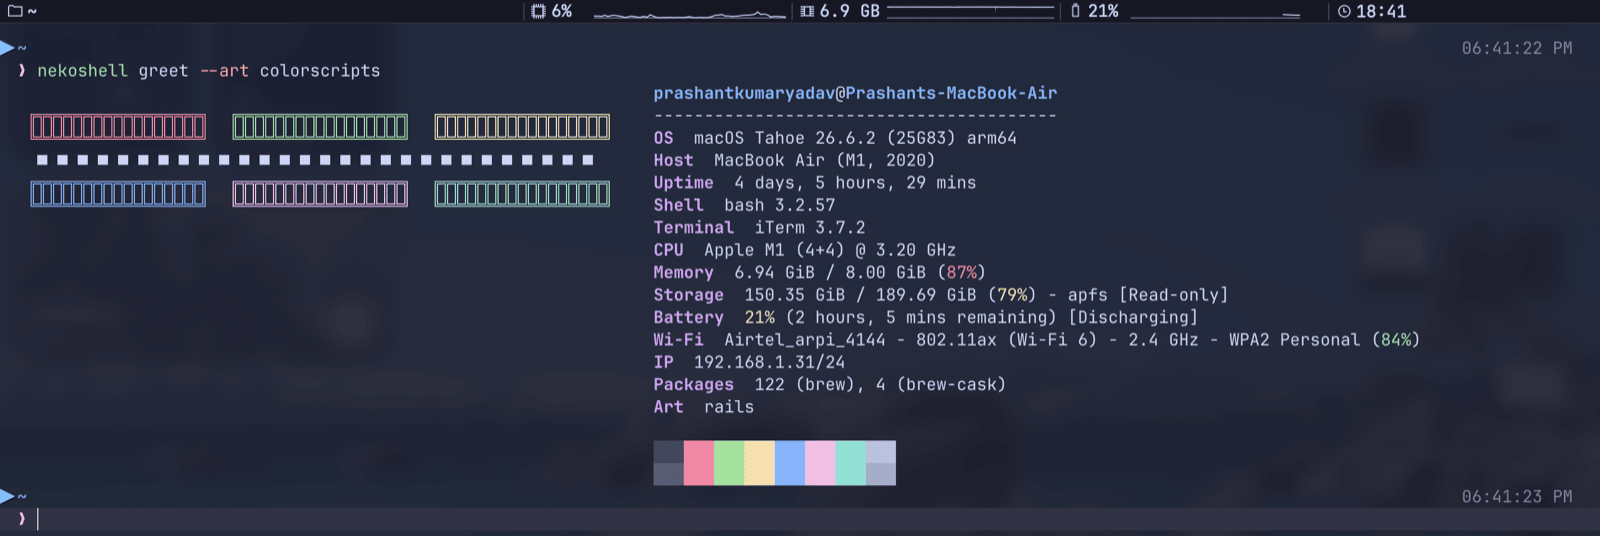
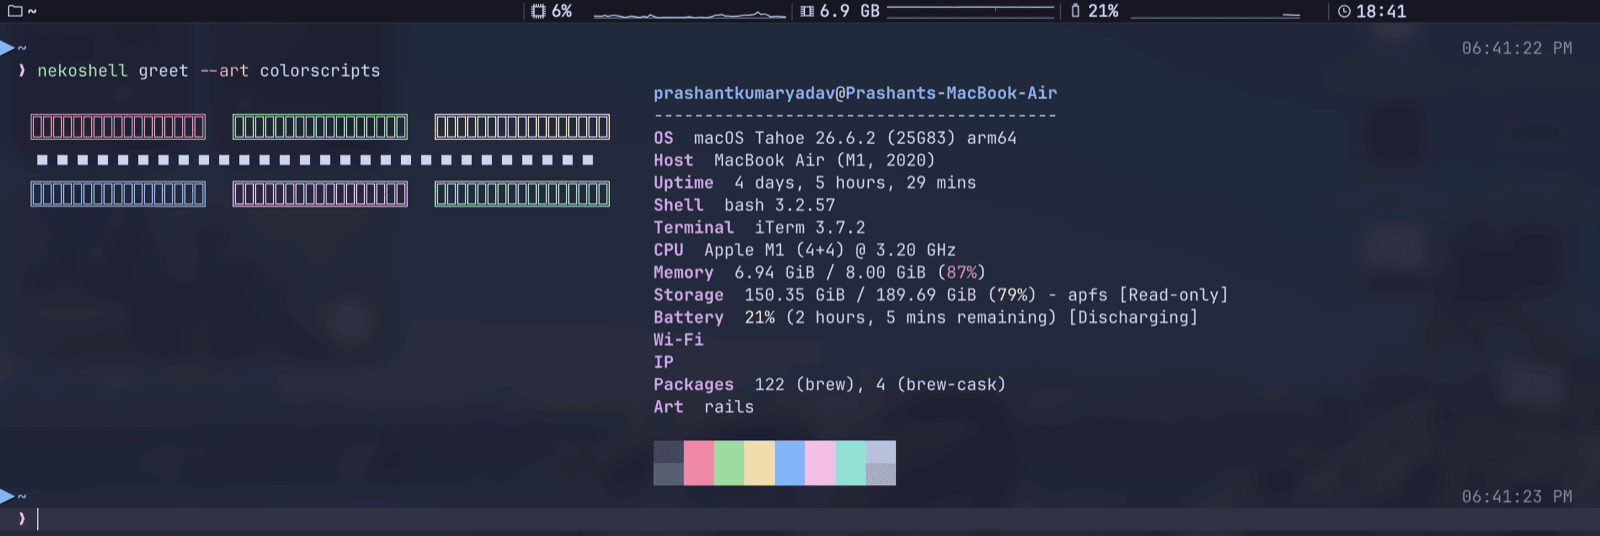
fix(docs): private rows out of the screenshots, and review nits
Fix wave from the whole-branch review of feat/docs-mascot-bundle:

- Paint the Wi-Fi SSID and IP address out of the three greet screenshots
  (greet-anime.png, greet-minecraft.png, greet-colorscripts.png), keeping
  the "Wi-Fi"/"IP" keys visible; requantize with pngquant. Add a sentence
  to CONTRIBUTING.md's Screenshots rule requiring this going forward.
- Narrow CONTRIBUTING.md's Images rule to no third-party artwork copied
  in, with a screenshot of the running program as the one exception, and
  adjust README.md's license paragraph to match.
- Anchor the /tests, /scripts, /skills, /packaging patterns in
  .gitattributes to the repository root so they stop also matching
  plugins/greet/scripts/ and plugins/pokemon/scripts/ by depth, add
  explicit export-ignore lines for those two so the tarball is unchanged,
  and add .gitignore export-ignore next to the other dotfiles.
- Rewrite the stale "Top-level only" comment in tests/core/repo.bats to
  describe what the anchored regexes actually check, and extend the
  root-file assertion to CONTRIBUTING.md, CODE_OF_CONDUCT.md,
  SECURITY.md and .gitignore.
- Make scripts/package.sh capture the tarball listing once so the entry
  count and the development-files tripwire cannot race tar against
  grep -q under pipefail.
- Reword the greet-image contract in AGENTS.md and
  docs/plugins/ARCHITECTURE.md: an image provider is never drawn in the
  automatic draw under --text, but --art NAME forces it.
[…]

Changed region(s): [[0.4375, 0.6269, 0.9062, 0.6866], [0.2812, 0.209, 0.375, 0.2687], [0.0312, 0.209, 0.125, 0.2687]]

diff --git a/AGENTS.md b/AGENTS.md
@@ -67,7 +67,7 @@ The installer moves every file it replaces into `~/.local/share/nekoshell/backup
 - Hooks, each optional, run by `core/lib/plugin.sh` with `PLUGIN_NAME`, `PLUGIN_DIR` and `FLAVOR` set: `install.sh` and `uninstall.sh` on add and remove, `theme.sh` on every theme switch, `doctor.sh` reporting rows with `report ok|warn|fail "check" "detail"`.
 - `files/link/`, symlinked into `$HOME`, and `files/copy/`, copied once and then the user's.
 - `early.zsh`, `plugin.zsh` and `late.zsh`, sourced by the core zshrc first of all (before anything prints), before the prompt, and after it; a plugin.zsh that sets `NEKOSHELL_PROMPT` takes the prompt over from Starship; `antidote.txt`, zsh plugins appended to the generated bundle; `bin/`, put on `PATH`; `cmd/<name>.sh`, defining `cmd_<name>` and `usage_<name>`, which becomes `nekoshell <name>`.
-- `greet-art`, an executable that prints a caption line and then a sprite (exit non-zero, silent, when it has nothing), makes the plugin an art provider for the greeting; `greet-image`, an executable that prints a caption line, the path of a PNG or JPG, and optionally a `WIDTH HEIGHT` line in cells, makes it an image provider, drawn only where the terminal adapter lists `images` and never under `nekoshell greet --text`. Either must list `greet` in `requires_plugins`, fetch its pack in `install.sh` pinned, and answer in a few milliseconds.
+- `greet-art`, an executable that prints a caption line and then a sprite (exit non-zero, silent, when it has nothing), makes the plugin an art provider for the greeting; `greet-image`, an executable that prints a caption line, the path of a PNG or JPG, and optionally a `WIDTH HEIGHT` line in cells, makes it an image provider, drawn only where the terminal adapter lists `images`, never in the automatic draw under `nekoshell greet --text`; `nekoshell greet --art NAME` forces that provider instead and draws its picture wherever the terminal can. Either must list `greet` in `requires_plugins`, fetch its pack in `install.sh` pinned, and answer in a few milliseconds.
 - `README.md` with exactly these headings: `## What it does`, `## Installs`, `## Files`, `## After install`, `## Remove`. The installer prints the "After install" section at the end of a run.
 - A user page, `docs/plugins/<name>.md`, with the headings `## What you get`, `## Using it`, `## Files`, `## Theme`, `## Turning it off`, and a row in the table in [docs/plugins/README.md](docs/plugins/README.md). Facts from the code only: no key or flag that is not in a config or a script.
 
@@ -81,7 +81,7 @@ Write `terminals/<id>/README.md` with `## What it configures`, `## Panel`, `## I
 
 ### Docs
 
-`docs/README.md` is the index and names every page; a new page joins one of its four groups. The pages a user reads ship in the release tarball: `docs/INSTALL.md`, `docs/CONFIGURATION.md` (`nekoshell.toml`, the themes, the prompt, `greet.conf`, `local.zsh`), `docs/TERMINALS.md` (what the five terminals can do), `docs/ARCHITECTURE.md`, `docs/DISTRIBUTION.md`, `docs/REMOTE.md`, `docs/plugins/` and `terminals/<id>/README.md`. The contributor-only paths do not: `docs/contributing/`, `docs/ci-checks/`, `docs/ai/`, `docs/superpowers/`, `docs/screenshots/`, `docs/assets/`, `tests/`, `scripts/`, `skills/`, `packaging/`, the `Makefile`, this file, `CLAUDE.md`, `CONTRIBUTING.md`, `CODE_OF_CONDUCT.md`, `SECURITY.md` and `llms.txt` are all `export-ignore` in `.gitattributes`. A new development-only path gets an `export-ignore` line of its own, and a link from a page that ships into a path that does not is written as `https://github.com/0PrashantYadav0/nekoshell/blob/main/<path>` rather than as a relative link.
+`docs/README.md` is the index and names every page or the index that holds it; a new page joins one of its four groups. The pages a user reads ship in the release tarball: `docs/INSTALL.md`, `docs/CONFIGURATION.md` (`nekoshell.toml`, the themes, the prompt, `greet.conf`, `local.zsh`), `docs/TERMINALS.md` (what the five terminals can do), `docs/ARCHITECTURE.md`, `docs/DISTRIBUTION.md`, `docs/REMOTE.md`, `docs/plugins/` and `terminals/<id>/README.md`. The contributor-only paths do not: `docs/contributing/`, `docs/ci-checks/`, `docs/ai/`, `docs/superpowers/`, `docs/screenshots/`, `docs/assets/`, `tests/`, `scripts/`, `skills/`, `packaging/`, the `Makefile`, this file, `CLAUDE.md`, `CONTRIBUTING.md`, `CODE_OF_CONDUCT.md`, `SECURITY.md` and `llms.txt` are all `export-ignore` in `.gitattributes`. A new development-only path gets an `export-ignore` line of its own, and a link from a page that ships into a path that does not is written as `https://github.com/0PrashantYadav0/nekoshell/blob/main/<path>` rather than as a relative link.
 
 A screenshot goes in `docs/screenshots/` as `greet-<provider>.png` or `<plugin>-<what>.png`, 1600 px wide (`sips -Z 1600 FILE`) and run through `pngquant --quality 65-90 --speed 1 --strip --force --ext .png FILE` until it is under 250 KB; the README's table and the plugin pages reference it with a relative path, because GitHub renders it from the repository and a tarball reader loses only a picture.
 

diff --git a/CONTRIBUTING.md b/CONTRIBUTING.md
@@ -45,9 +45,9 @@ Every pull request runs five jobs in `.github/workflows/ci.yml`, and branch prot
 
 **Colours.** Every colour comes from `core/theme/palettes.json`, generated by `core/theme/gen-palettes.py` from the Catppuccin palette at a pinned commit. Anything that carries colour is a `.tmpl` rendered through `theme_render_template` in `core/lib/theme.sh`; a hex value written into a config is left behind on the next `nekoshell theme`.
 
-**Images.** No copyrighted images anywhere in the repository. `plugins/greet/art/` holds the project's own pixel art only.
+**Images.** No third-party artwork as such anywhere in the repository: no sprite, still or texture copied in. The one exception is a screenshot of the running program, since it shows the program, with whatever art it drew at the time; those are kept small and out of the tarball. `plugins/greet/art/` holds the project's own pixel art only.
 
-**Screenshots.** A new screenshot goes in `docs/screenshots/`, named `greet-<provider>.png` or `<plugin>-<what>.png`, 1600 px wide (`sips -Z 1600 FILE`) and run through `pngquant` (`pngquant --quality 65-90 --speed 1 --strip --force --ext .png FILE`) until it is under 250 KB. `docs/screenshots/` is listed in `.gitattributes` with `export-ignore`, so it stays out of the release tarball.
+**Screenshots.** A new screenshot goes in `docs/screenshots/`, named `greet-<provider>.png` or `<plugin>-<what>.png`, 1600 px wide (`sips -Z 1600 FILE`) and run through `pngquant` (`pngquant --quality 65-90 --speed 1 --strip --force --ext .png FILE`) until it is under 250 KB. `docs/screenshots/` is listed in `.gitattributes` with `export-ignore`, so it stays out of the release tarball. A screenshot never shows a Wi-Fi network name, an IP address, a token or anything else private; hide those fastfetch rows before taking it, or paint them out.
 
 **Vendored files.** A file copied from another project is listed in [THIRD_PARTY.md](THIRD_PARTY.md) with its source commit and license. Generated files (`core/theme/palettes.json`, `plugins/pokemon/data/pokemon.tsv`) are committed with the generator beside them; re-run the generator rather than editing the output.
 

diff --git a/docs/plugins/ARCHITECTURE.md b/docs/plugins/ARCHITECTURE.md
@@ -126,7 +126,7 @@ An executable `greet-art` at the top of the plugin makes it an art provider for 
 
 `PLUGIN_NAME` and `PLUGIN_DIR` are set when it runs. Every shipped provider also seeds `RANDOM` from `NEKOSHELL_SEED` when that variable is in the environment, which is how a test pins the draw; the greet plugin's own doctor row sets it.
 
-An executable `greet-image` makes the plugin an image provider instead: the caption on the first line, the path of a PNG or JPG on the second, and on an optional third line the size to draw at as `WIDTH HEIGHT` in cells (without it, `IMAGE_WIDTH` by `IMAGE_HEIGHT` from `greet.conf`, which the greeting exports). The greeting hands the file to fastfetch with the terminal's image flag, so an image provider is only drawn from where the terminal adapter lists `images` among its capabilities, and never on `--text`; where images cannot be drawn the other providers keep their odds. A plugin that ships both files is drawn as a picture where that works and as a sprite everywhere else.
+An executable `greet-image` makes the plugin an image provider instead: the caption on the first line, the path of a PNG or JPG on the second, and on an optional third line the size to draw at as `WIDTH HEIGHT` in cells (without it, `IMAGE_WIDTH` by `IMAGE_HEIGHT` from `greet.conf`, which the greeting exports). The greeting hands the file to fastfetch with the terminal's image flag, so an image provider is only drawn from where the terminal adapter lists `images` among its capabilities, never in the automatic draw under `--text`; `--art NAME` forces that provider instead and draws its picture wherever the terminal can. Where images cannot be drawn the other providers keep their odds. A plugin that ships both files is drawn as a picture where that works and as a sprite everywhere else.
 
 The greeting picks among the enabled providers with `ART` from `~/.config/nekoshell/greet.conf`: `auto` gives each the same odds, and a list such as `pokemon:70,anime:30` weights them. A name that is not an enabled provider is dropped and a weight of 0 never draws.
 

diff --git a/docs/README.md b/docs/README.md
@@ -5,7 +5,7 @@ Every page in this repository, grouped by what you came for. The front page is [
 ## Using nekoshell
 
 - [INSTALL.md](INSTALL.md): the long install, the seven steps, the flags, the steps only you can do, the commands, upgrading, uninstalling and troubleshooting.
-- [CONFIGURATION.md](CONFIGURATION.md): `nekoshell.toml`, the themes, `greet.conf` and your own `local.zsh`.
+- [CONFIGURATION.md](CONFIGURATION.md): `nekoshell.toml`, the themes, the prompt, `greet.conf` and your own `local.zsh`.
 - [TERMINALS.md](TERMINALS.md): what the five terminal adapters can do, how to configure them, and what each one still needs from you by hand.
 - [plugins/README.md](plugins/README.md): how plugins are managed and what the profiles hold, with one page per plugin behind it.
 - [REMOTE.md](REMOTE.md): installing nekoshell on another Mac over SSH, and what behaves differently there.

diff --git a/README.md b/README.md
@@ -105,4 +105,4 @@ Issues and pull requests are welcome; [CONTRIBUTING.md](https://github.com/0Pras
 
 ## License
 
-MIT, see [LICENSE](LICENSE). The sprites and pictures the greeting draws come from packs fetched at install time and are not part of this repository; Pokémon is a trademark of The Pokémon Company and Minecraft of Mojang.
+MIT, see [LICENSE](LICENSE). The sprites and pictures the greeting draws come from packs fetched at install time and are not part of this repository; only the screenshots above show them. Pokémon is a trademark of The Pokémon Company and Minecraft of Mojang.
